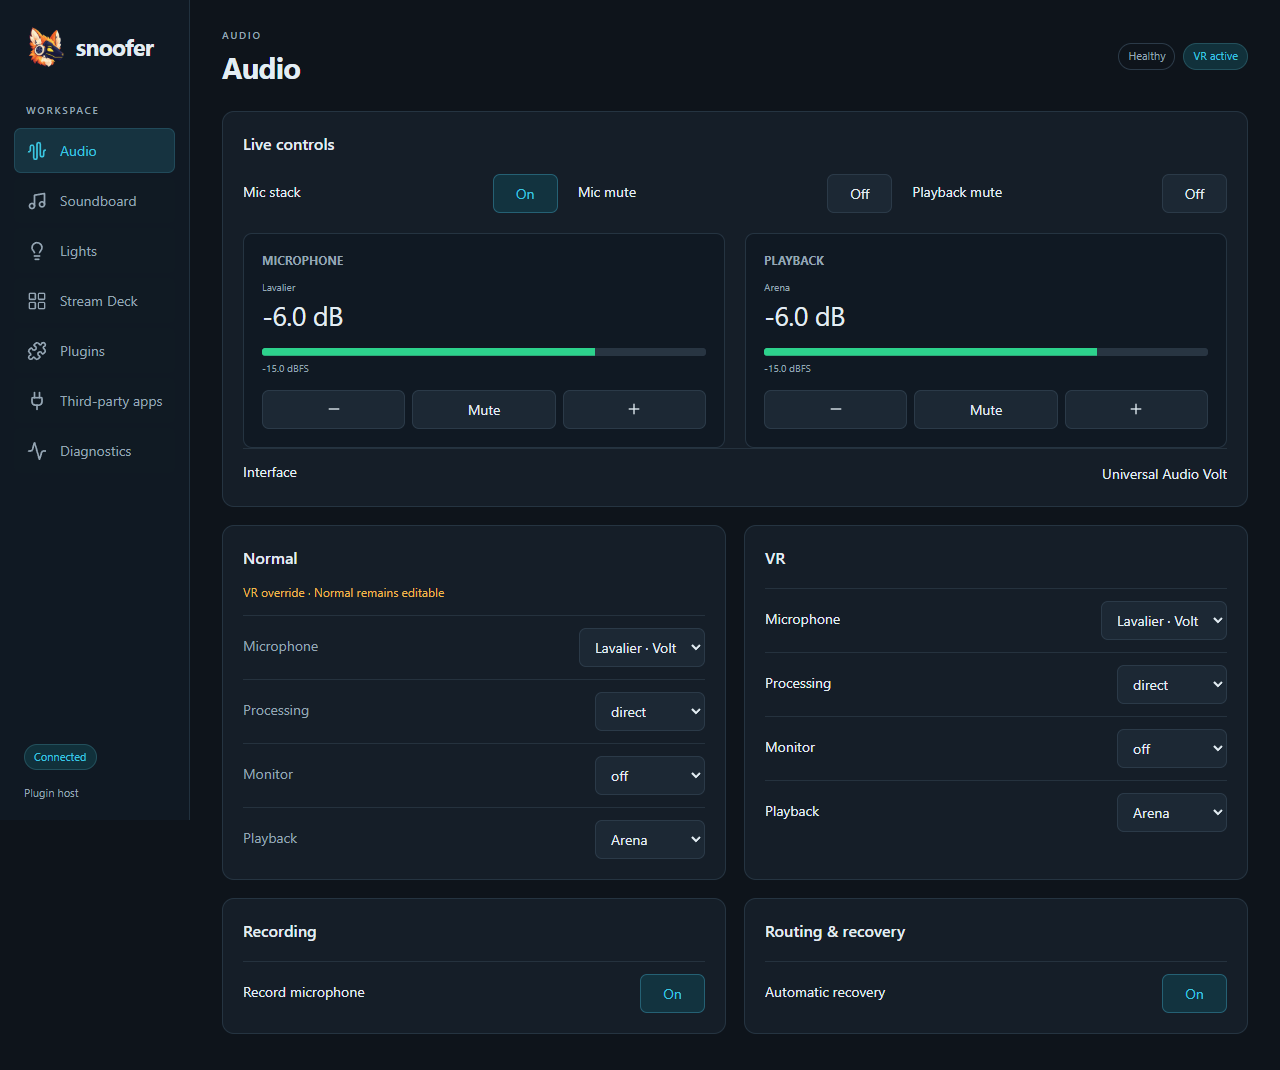
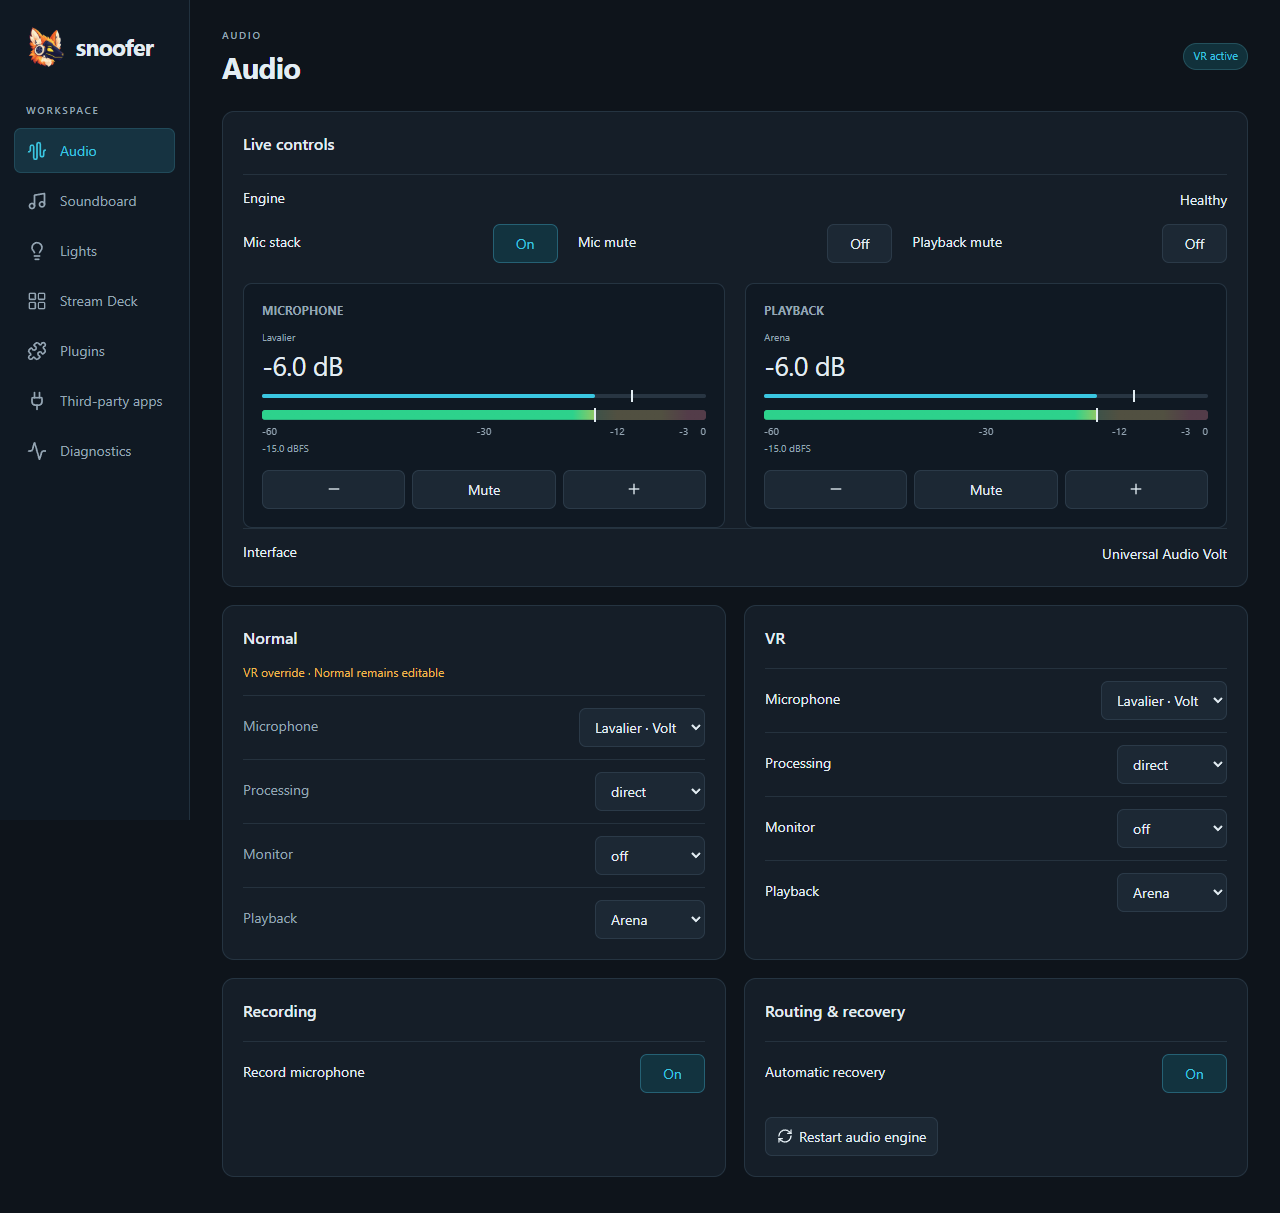
docs(ui): record control surface polish validation

diff --git a/openspec/changes/control-surface-polish/validation.md b/openspec/changes/control-surface-polish/validation.md
@@ -1,0 +1,16 @@
+# Validation
+
+## Automated (2026-10-06)
+- `go vet ./...` and `go test ./...` pass. New tests cover dial ballistics (instant attack, 24 dB/s release, 1.5 s hold then fall, reset on unknown readings and binding changes), position parsing (dB, percent, `Sync 62%`, Off, N/A), and the renderer's gradient, peak tick and position track.
+- `node --test app/web/model.test.mjs` passes, including the GUI ballistics and gain position helpers.
+- `check-gui.cjs` passes: Engine row on Audio only, no header health badge or host footer, a live meter with peak marker, a 75% position track for -6 dB, and the -60/-30/-12/-3/0 scale.
+- `check-desktop.cjs` passes against the new binary (native WebView2 window, revisioned actions, close/reopen, graceful tray shutdown).
+- Strict OpenSpec validation passes. `scripts/build.ps1` built `bin/snoofer.exe` after stopping Snoofer gracefully; Snoofer was relaunched with the personal configuration.
+- `go test -race` was not run: the toolchain has cgo disabled, and the toolchain was left unchanged.
+
+## Visual inspection
+- `docs/design/dial-meters.png` is a native-size render of the dial strip (upright): metered gain, a near-clip mic with red peak tick, an unknown reading (`LEVEL N/A`) and Hue brightness with a percentage track.
+- `docs/design/gui-audio.png` shows the redesigned mixer strips.
+
+## Not yet verified
+Hardware acceptance (task 8) on the Stream Deck + XL remains open.

diff --git a/openspec/changes/control-surface-polish/tasks.md b/openspec/changes/control-surface-polish/tasks.md
@@ -8,7 +8,7 @@ Each numbered block is one reviewable commit.
 - [x] 4. `feat(soundboard)`: overlap setting, toggle control and deck icon; voice pool with an 8-voice cap and oldest-cut. Tests cover voice management with a fake player; contract and docs.
 - [x] 5. `feat(streamdeck)`: dial meter redesign (gradient bar, VU ballistics, peak hold, position track) and faster level sampling and refresh while meters show. Presentation tests and a native-size preview.
 - [x] 6. `feat(gui)`: mixer meter peak hold, smooth motion, scale and position track; faster polling on audio screens. Update the GUI check, screenshots and contract.
-- [ ] 7. Validate (Go tests/vet, GUI and desktop checks, OpenSpec, canonical build), relaunch and record the results.
+- [x] 7. Validate (Go tests/vet, GUI and desktop checks, OpenSpec, canonical build), relaunch and record the results.
 
 ## Hardware acceptance
 - [ ] 8. On the Stream Deck + XL: meter motion and peak hold look right at the new refresh rate; mic keys blank and return with the stack toggle; overlapping clips play together and Stop silences all.
